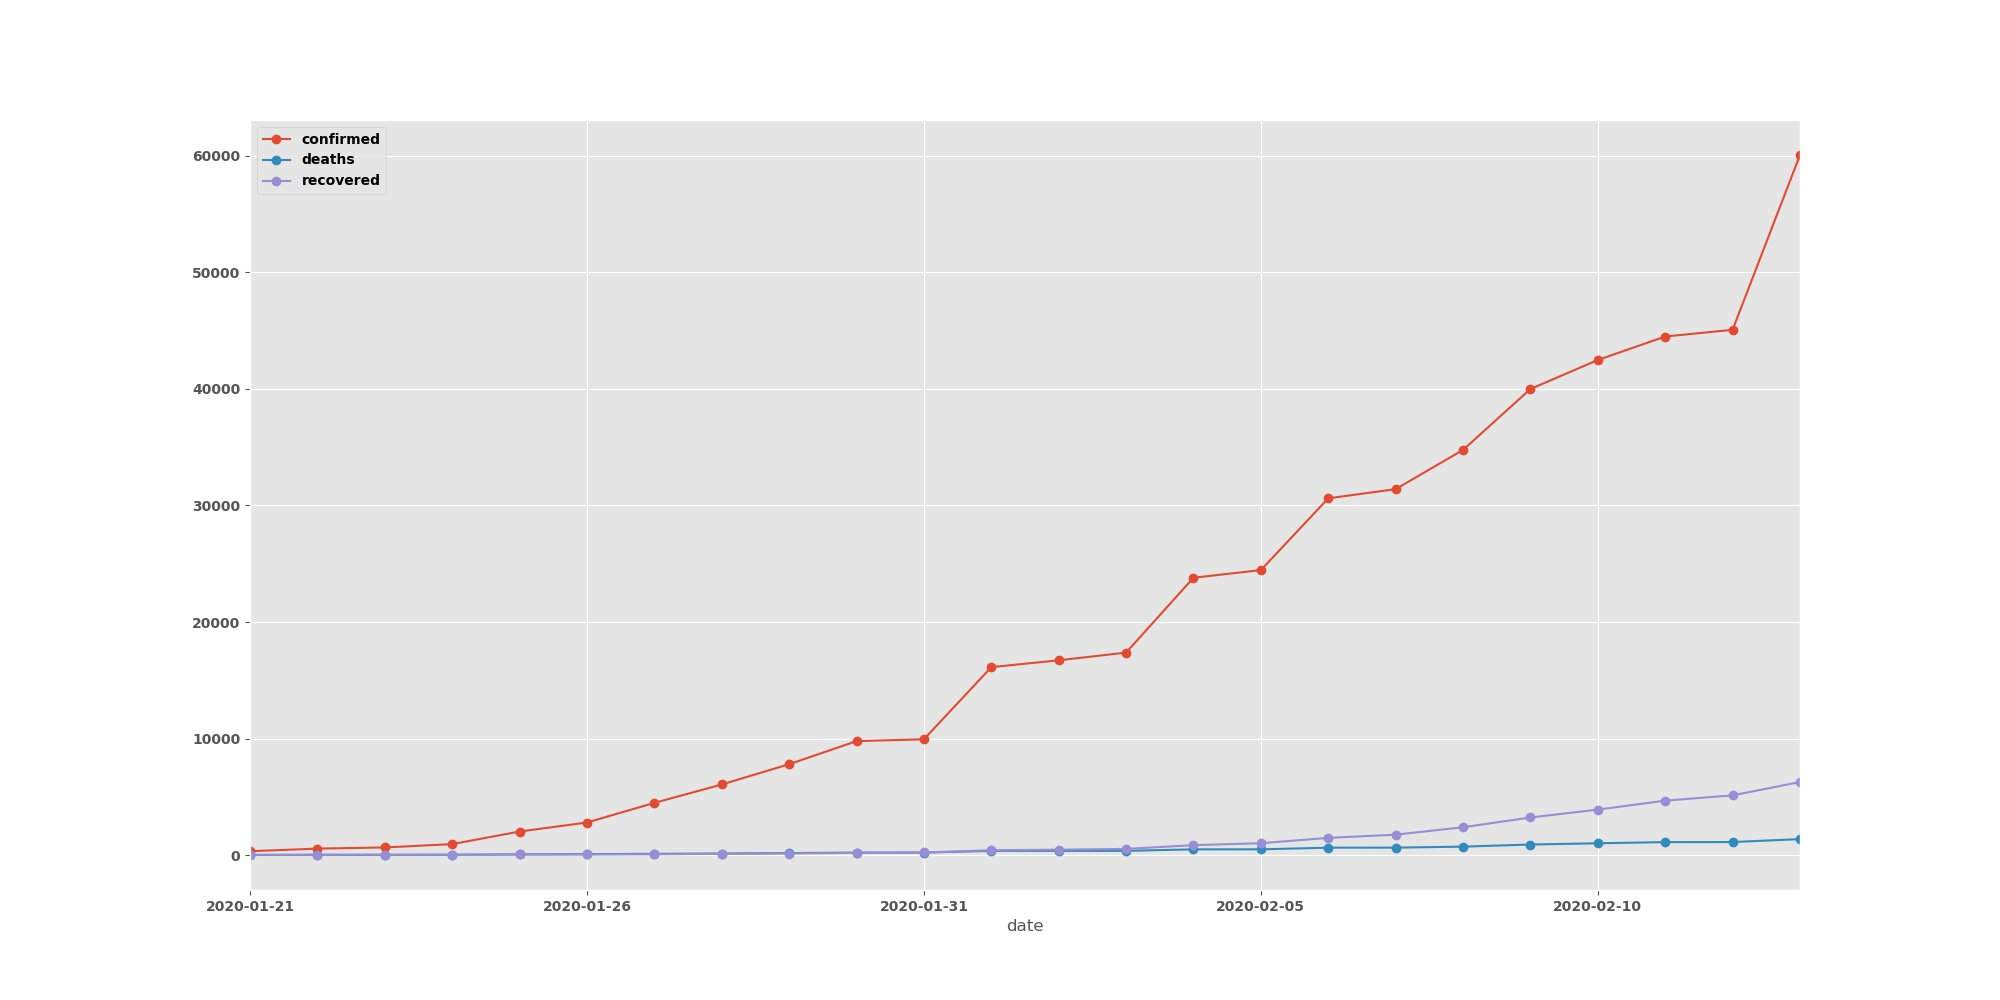
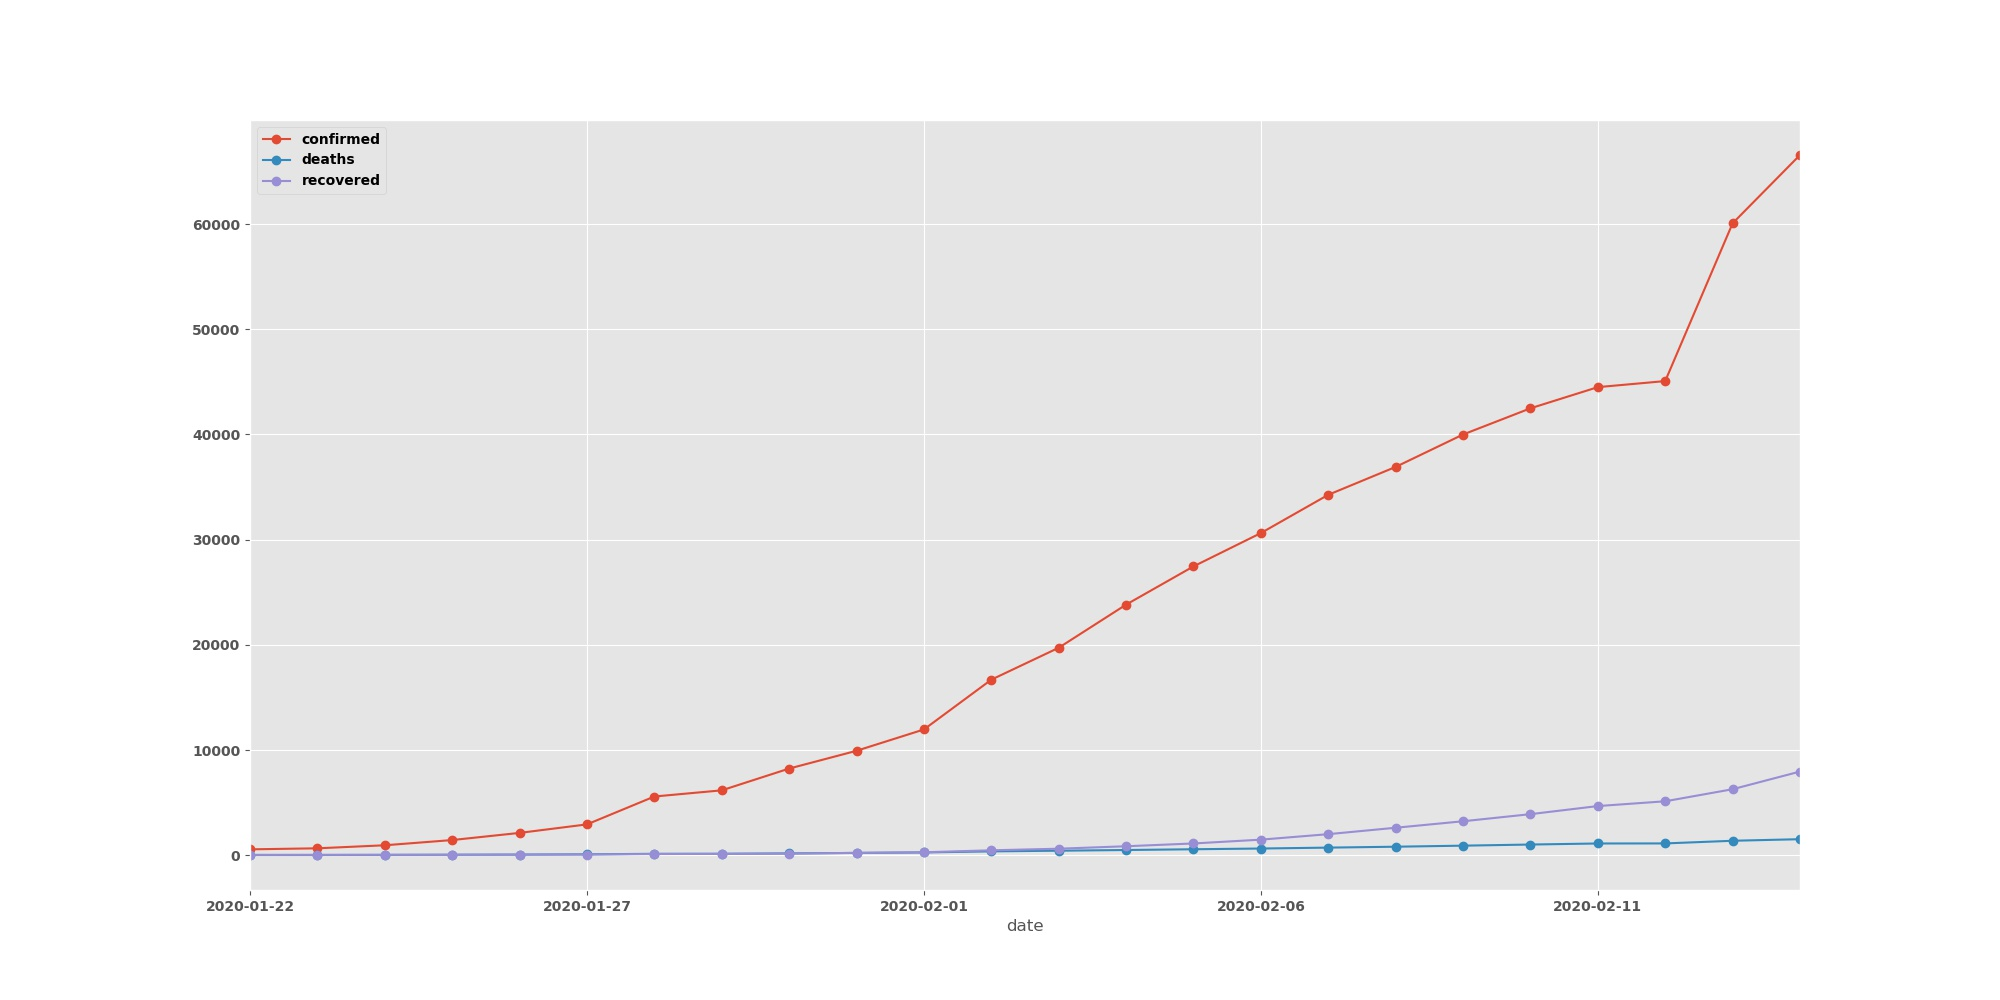
ADD - added report for 14th of feb|

diff --git a/README.md b/README.md
@@ -25,7 +25,7 @@ This plots will be updated <u>daily</u> to visualize the trend in accumalitive s
 - **<i>Deaths</i>**
 - **<i>Recoveries.</i>**
 
-Last updated: `2020-02-12`
+Last updated: `2020-02-15`
 
 **Trend Line**
 
